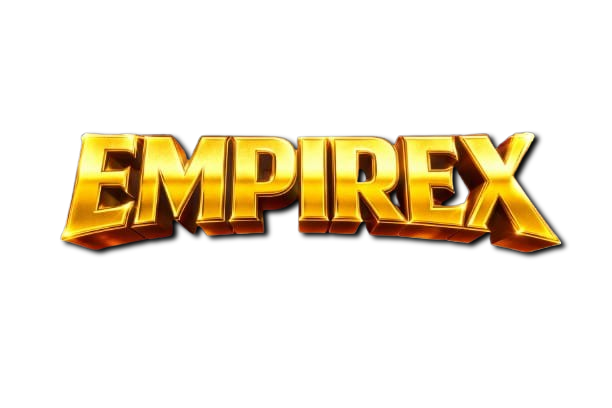
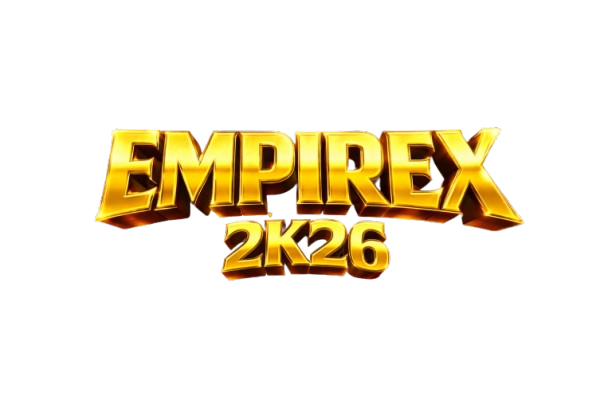
update website

Changed region(s): [[0.0931, 0.2941, 0.9314, 0.7059]]

diff --git a/src/components/HeroSection.tsx b/src/components/HeroSection.tsx
@@ -76,32 +76,21 @@ const HeroSection = () => {
           <h2 className="text-2xl md:text-4xl lg:text-5xl font-extrabold text-center mb-6 bg-gradient-to-r from-yellow-400 via-amber-500 to-yellow-600 bg-clip-text text-transparent drop-shadow-lg tracking-wide">
             DEPARTMENT OF ARTIFICIAL INTELLIGENCE & DATA SCIENCE
           </h2>
-          <img src={empirexTitle} alt="EMPIREX" className="h-55 md:h-84 lg:h-88 mb-5 drop-shadow-5xl" />
-
-          <motion.p
-            initial={{ opacity: 0 }}
-            animate={{ opacity: 1 }}
-            transition={{ delay: 0.3, duration: 0.6 }}
-            className="text-6xl md:text-8xl font-display text-sm font-bold gold-gradient-text hidden sm:block"
-            style={{
-              fontFamily: "Bebas Neue, sans-serif",
-              textShadow: "0px 4px 20px rgba(0,0,0,0.6)"
-            }}>
-            2K26
-          </motion.p>
+          <img src={empirexTitle} alt="EMPIREX" className="h-85 md:h-94 lg:h-98 mb-5 drop-shadow-5xl" />
 
           <motion.p
             initial={{ opacity: 0 }}
             animate={{ opacity: 1 }}
             transition={{ delay: 0.5, duration: 0.6 }}
-            className="text-sm md:text-lg text-muted-foreground font-body max-w-xl mb-2"
+            className="text-xl md:text-2xl font-semibold text-foreground mb-2 tracking-wide"
           >
             National Level Technical Symposium
           </motion.p>
-          <p className="text-xs md:text-sm text-muted-foreground font-body mb-1">
+          <p className="text-xs md:text-sm text-muted-foreground font-body font-bold mb-1">
             Department of B.Tech AI &amp; Data Science
           </p>
-          <p className="text-xs md:text-sm text-muted-foreground font-body mb-8">
+
+          <p className="text-xs md:text-sm text-muted-foreground font-body font-bold mb-8">
             RVS Technical Campus, Coimbatore
           </p>
 
@@ -120,9 +109,9 @@ const HeroSection = () => {
             </button>
           </motion.div>
 
-          <p className="mt-6 text-xs text-muted-foreground font-body">
-            📅 March 17, 2026 &nbsp;|&nbsp; 📍 Room No 222 – Seminar Hall
-          </p>
+<p className="mt-6 text-xl md:text-2xl text-muted-foreground font-body">
+  📅 March 17, 2026 &nbsp;|&nbsp; 📍 Room No 222 – Seminar Hall
+</p>
         </motion.div>
       </div>
     </section>

diff --git a/src/components/EventsSection.tsx b/src/components/EventsSection.tsx
@@ -1,6 +1,6 @@
 import { useState } from "react";
 import { motion } from "framer-motion";
-import { Code, Brain, Cpu, Lightbulb, Gamepad2, Mic, Palette, Users, X, Clock, MapPin, Trophy, Globe, Database, Phone,FileText,Network,ShieldAlert, } from "lucide-react";
+import { Code,Film, Brain, Cpu, Lightbulb, Gamepad2, Mic, Palette, Users, X, Clock, MapPin, Trophy, Globe, Database, Phone,FileText,Network,ShieldAlert, } from "lucide-react";
 interface EventInfo {
   icon: React.ElementType;
   title: string;
@@ -117,7 +117,7 @@ const technicalEvents: EventInfo[] = [
 
 const nonTechnicalEvents: EventInfo[] = [
   {
-    icon: Mic, title: "SCENE CHAIN",
+    icon: Film , title: "SCENE CHAIN",
     desc: "The Scene Chain Game (Movie Edition) is a fun and interactive activity where players connect scenes using movie titles, characters, or famous moments. Each participant must link one movie scene to another in a logical or creative way, forming a continuous “chain” of movies.This game is perfect for movie lovers and helps improve memory, creativity, and quick thinking.",
     fullDesc: "The Scene Chain Game (Movie Edition) is a fun and interactive activity where players connect scenes using movie titles, characters, or famous moments. Each participant must link one movie scene to another in a logical or creative way, forming a continuous “chain” of movies.This game is perfect for movie lovers and helps improve memory, creativity, and quick thinking.",
     rules: [

diff --git a/src/components/ContactSection.tsx b/src/components/ContactSection.tsx
@@ -3,7 +3,7 @@ import { Phone, Mail, MapPin, Instagram, MessageCircle } from "lucide-react";
 
 const coordinators = [
   { name: "Thiruchandru", role: "Student Coordinator", phone: "+91 6385775047", email: "callmethiru7@gmail.com" },
-  { name: "Moumiththa", role: "Student Coordinator", phone: "+91 6383539621", email: "priya@rvstech.edu" },
+  { name: "Moumiththa", role: "Student Coordinator", phone: "+91 6383539621", email: "moumiamir@gmail.com" },
   { name: "Balaji", role: "Event Head", phone: "+91 9940933866", email: "balaji@rvstech.edu" },
 ];
 

diff --git a/src/components/Footer.tsx b/src/components/Footer.tsx
@@ -45,7 +45,7 @@ const Footer = () => (
 
         {/* Instagram */}
         <a
-          href="https://www.instagram.com/rvstechnicalcampus?igsh=bHd1MXMzdWpqZ2h4"
+          href="https://www.instagram.com/_ai_empire__?igsh=ajlmd2t3bTJ2czR3"
           target="_blank"
           rel="noopener noreferrer"
           className="text-muted-foreground hover:text-pink-500 transition-colors"
